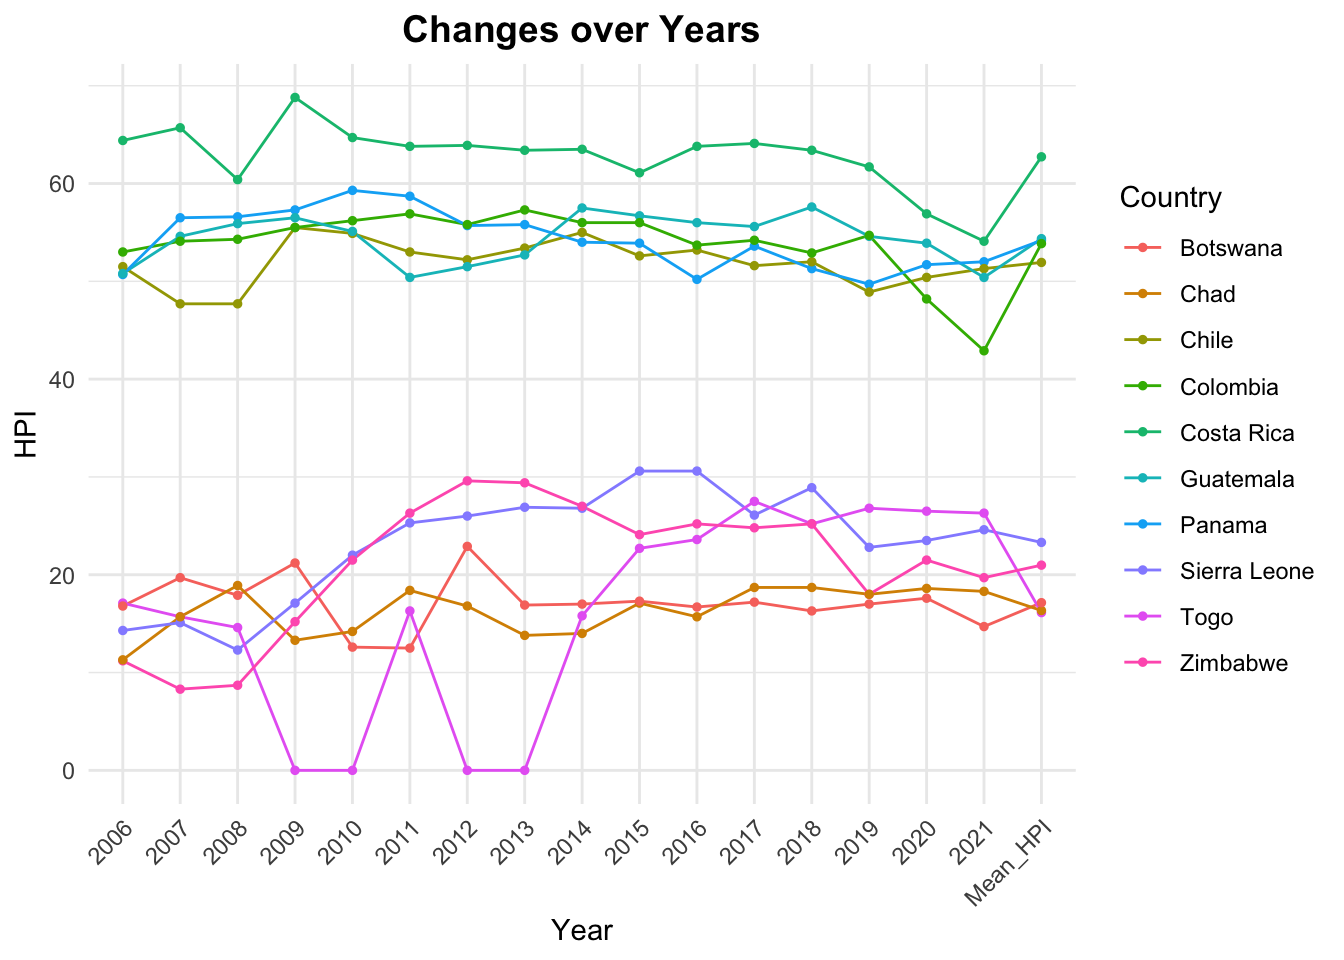
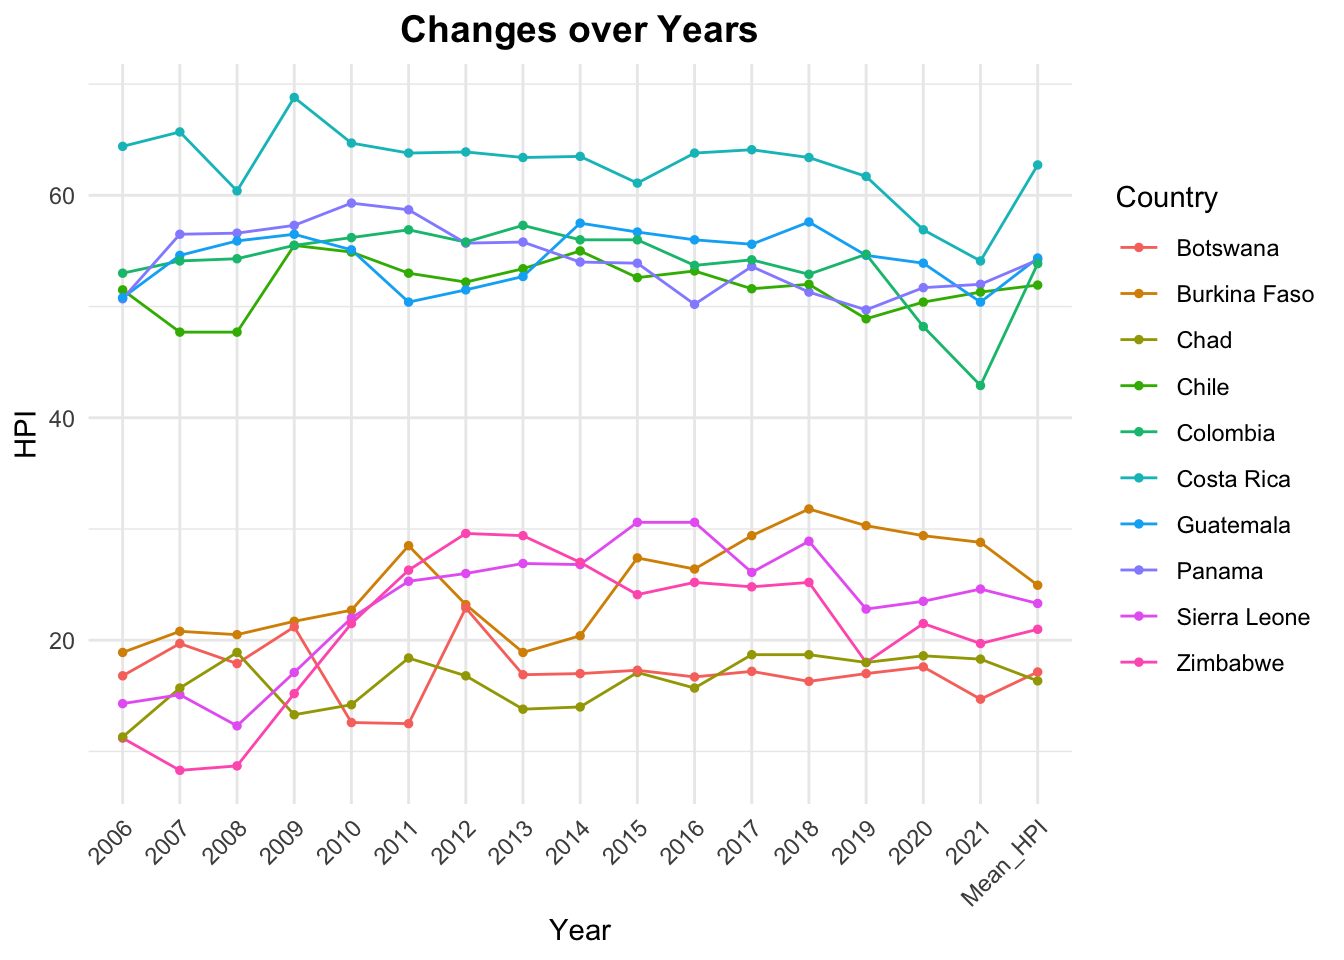
update results.qmd

diff --git a/docs/results.html b/docs/results.html
@@ -652,38 +652,39 @@ pre > code.sourceCode > span > a:first-child::before { text-decoration: underlin
 <span id="cb9-3"><a href="#cb9-3" aria-hidden="true" tabindex="-1"></a>  <span class="fu">select</span>(Country, <span class="st">`</span><span class="at">2006</span><span class="st">`</span>)</span>
 <span id="cb9-4"><a href="#cb9-4" aria-hidden="true" tabindex="-1"></a></span>
 <span id="cb9-5"><a href="#cb9-5" aria-hidden="true" tabindex="-1"></a>lowest_2006 <span class="ot">&lt;-</span> data_2006 <span class="sc">%&gt;%</span></span>
-<span id="cb9-6"><a href="#cb9-6" aria-hidden="true" tabindex="-1"></a>  <span class="fu">arrange</span>(<span class="st">`</span><span class="at">2006</span><span class="st">`</span>) <span class="sc">%&gt;%</span></span>
-<span id="cb9-7"><a href="#cb9-7" aria-hidden="true" tabindex="-1"></a>  <span class="fu">head</span>(<span class="dv">5</span>)</span>
-<span id="cb9-8"><a href="#cb9-8" aria-hidden="true" tabindex="-1"></a></span>
-<span id="cb9-9"><a href="#cb9-9" aria-hidden="true" tabindex="-1"></a>highest_2006 <span class="ot">&lt;-</span> data_2006 <span class="sc">%&gt;%</span></span>
-<span id="cb9-10"><a href="#cb9-10" aria-hidden="true" tabindex="-1"></a>  <span class="fu">arrange</span>(<span class="fu">desc</span>(<span class="st">`</span><span class="at">2006</span><span class="st">`</span>)) <span class="sc">%&gt;%</span></span>
-<span id="cb9-11"><a href="#cb9-11" aria-hidden="true" tabindex="-1"></a>  <span class="fu">head</span>(<span class="dv">5</span>)</span>
-<span id="cb9-12"><a href="#cb9-12" aria-hidden="true" tabindex="-1"></a></span>
-<span id="cb9-13"><a href="#cb9-13" aria-hidden="true" tabindex="-1"></a>selected_countries <span class="ot">&lt;-</span> <span class="fu">rbind</span>(lowest_2006, highest_2006)</span>
-<span id="cb9-14"><a href="#cb9-14" aria-hidden="true" tabindex="-1"></a>filtered_HPI <span class="ot">&lt;-</span> past_HPI <span class="sc">%&gt;%</span></span>
-<span id="cb9-15"><a href="#cb9-15" aria-hidden="true" tabindex="-1"></a>  <span class="fu">filter</span>(Country <span class="sc">%in%</span> selected_countries<span class="sc">$</span>Country)</span>
-<span id="cb9-16"><a href="#cb9-16" aria-hidden="true" tabindex="-1"></a></span>
-<span id="cb9-17"><a href="#cb9-17" aria-hidden="true" tabindex="-1"></a>filtered_HPI_long <span class="ot">&lt;-</span> filtered_HPI <span class="sc">%&gt;%</span></span>
-<span id="cb9-18"><a href="#cb9-18" aria-hidden="true" tabindex="-1"></a>  <span class="fu">pivot_longer</span>(</span>
-<span id="cb9-19"><a href="#cb9-19" aria-hidden="true" tabindex="-1"></a>    <span class="at">cols =</span> <span class="sc">-</span>Country,</span>
-<span id="cb9-20"><a href="#cb9-20" aria-hidden="true" tabindex="-1"></a>    <span class="at">names_to =</span> <span class="st">"Year"</span>,</span>
-<span id="cb9-21"><a href="#cb9-21" aria-hidden="true" tabindex="-1"></a>    <span class="at">values_to =</span> <span class="st">"HPI"</span></span>
-<span id="cb9-22"><a href="#cb9-22" aria-hidden="true" tabindex="-1"></a>  )</span>
-<span id="cb9-23"><a href="#cb9-23" aria-hidden="true" tabindex="-1"></a></span>
-<span id="cb9-24"><a href="#cb9-24" aria-hidden="true" tabindex="-1"></a><span class="fu">ggplot</span>(filtered_HPI_long, <span class="fu">aes</span>(<span class="at">x =</span> Year, <span class="at">y =</span> HPI, <span class="at">color =</span> Country, <span class="at">group =</span> Country)) <span class="sc">+</span></span>
-<span id="cb9-25"><a href="#cb9-25" aria-hidden="true" tabindex="-1"></a>  <span class="fu">geom_line</span>(<span class="at">size =</span> <span class="fl">0.5</span>) <span class="sc">+</span></span>
-<span id="cb9-26"><a href="#cb9-26" aria-hidden="true" tabindex="-1"></a>  <span class="fu">geom_point</span>(<span class="at">size =</span> <span class="dv">1</span>) <span class="sc">+</span></span>
-<span id="cb9-27"><a href="#cb9-27" aria-hidden="true" tabindex="-1"></a>  <span class="fu">labs</span>(</span>
-<span id="cb9-28"><a href="#cb9-28" aria-hidden="true" tabindex="-1"></a>    <span class="at">title =</span> <span class="st">"Changes over Years"</span>,</span>
-<span id="cb9-29"><a href="#cb9-29" aria-hidden="true" tabindex="-1"></a>    <span class="at">x =</span> <span class="st">"Year"</span>,</span>
-<span id="cb9-30"><a href="#cb9-30" aria-hidden="true" tabindex="-1"></a>    <span class="at">y =</span> <span class="st">"HPI"</span>,</span>
-<span id="cb9-31"><a href="#cb9-31" aria-hidden="true" tabindex="-1"></a>    <span class="at">color =</span> <span class="st">"Country"</span></span>
-<span id="cb9-32"><a href="#cb9-32" aria-hidden="true" tabindex="-1"></a>  ) <span class="sc">+</span></span>
-<span id="cb9-33"><a href="#cb9-33" aria-hidden="true" tabindex="-1"></a>  <span class="fu">theme_minimal</span>() <span class="sc">+</span></span>
-<span id="cb9-34"><a href="#cb9-34" aria-hidden="true" tabindex="-1"></a>  <span class="fu">theme</span>(</span>
-<span id="cb9-35"><a href="#cb9-35" aria-hidden="true" tabindex="-1"></a>    <span class="at">axis.text.x =</span> <span class="fu">element_text</span>(<span class="at">angle =</span> <span class="dv">45</span>, <span class="at">hjust =</span> <span class="dv">1</span>),</span>
-<span id="cb9-36"><a href="#cb9-36" aria-hidden="true" tabindex="-1"></a>    <span class="at">plot.title =</span> <span class="fu">element_text</span>(<span class="at">hjust =</span> <span class="fl">0.5</span>, <span class="at">size =</span> <span class="dv">14</span>, <span class="at">face =</span> <span class="st">"bold"</span>)</span>
-<span id="cb9-37"><a href="#cb9-37" aria-hidden="true" tabindex="-1"></a>  )</span></code><button title="Copy to Clipboard" class="code-copy-button"><i class="bi"></i></button></pre></div>
+<span id="cb9-6"><a href="#cb9-6" aria-hidden="true" tabindex="-1"></a>  <span class="fu">filter</span>(Country <span class="sc">!=</span> <span class="st">"Togo"</span>) <span class="sc">%&gt;%</span> <span class="co"># Exclude Togo for missing values</span></span>
+<span id="cb9-7"><a href="#cb9-7" aria-hidden="true" tabindex="-1"></a>  <span class="fu">arrange</span>(<span class="st">`</span><span class="at">2006</span><span class="st">`</span>) <span class="sc">%&gt;%</span>          </span>
+<span id="cb9-8"><a href="#cb9-8" aria-hidden="true" tabindex="-1"></a>  <span class="fu">head</span>(<span class="dv">5</span>)</span>
+<span id="cb9-9"><a href="#cb9-9" aria-hidden="true" tabindex="-1"></a></span>
+<span id="cb9-10"><a href="#cb9-10" aria-hidden="true" tabindex="-1"></a>highest_2006 <span class="ot">&lt;-</span> data_2006 <span class="sc">%&gt;%</span></span>
+<span id="cb9-11"><a href="#cb9-11" aria-hidden="true" tabindex="-1"></a>  <span class="fu">arrange</span>(<span class="fu">desc</span>(<span class="st">`</span><span class="at">2006</span><span class="st">`</span>)) <span class="sc">%&gt;%</span></span>
+<span id="cb9-12"><a href="#cb9-12" aria-hidden="true" tabindex="-1"></a>  <span class="fu">head</span>(<span class="dv">5</span>)</span>
+<span id="cb9-13"><a href="#cb9-13" aria-hidden="true" tabindex="-1"></a></span>
+<span id="cb9-14"><a href="#cb9-14" aria-hidden="true" tabindex="-1"></a>selected_countries <span class="ot">&lt;-</span> <span class="fu">rbind</span>(lowest_2006, highest_2006)</span>
+<span id="cb9-15"><a href="#cb9-15" aria-hidden="true" tabindex="-1"></a>filtered_HPI <span class="ot">&lt;-</span> past_HPI <span class="sc">%&gt;%</span></span>
+<span id="cb9-16"><a href="#cb9-16" aria-hidden="true" tabindex="-1"></a>  <span class="fu">filter</span>(Country <span class="sc">%in%</span> selected_countries<span class="sc">$</span>Country)</span>
+<span id="cb9-17"><a href="#cb9-17" aria-hidden="true" tabindex="-1"></a></span>
+<span id="cb9-18"><a href="#cb9-18" aria-hidden="true" tabindex="-1"></a>filtered_HPI_long <span class="ot">&lt;-</span> filtered_HPI <span class="sc">%&gt;%</span></span>
+<span id="cb9-19"><a href="#cb9-19" aria-hidden="true" tabindex="-1"></a>  <span class="fu">pivot_longer</span>(</span>
+<span id="cb9-20"><a href="#cb9-20" aria-hidden="true" tabindex="-1"></a>    <span class="at">cols =</span> <span class="sc">-</span>Country,</span>
+<span id="cb9-21"><a href="#cb9-21" aria-hidden="true" tabindex="-1"></a>    <span class="at">names_to =</span> <span class="st">"Year"</span>,</span>
+<span id="cb9-22"><a href="#cb9-22" aria-hidden="true" tabindex="-1"></a>    <span class="at">values_to =</span> <span class="st">"HPI"</span></span>
+<span id="cb9-23"><a href="#cb9-23" aria-hidden="true" tabindex="-1"></a>  )</span>
+<span id="cb9-24"><a href="#cb9-24" aria-hidden="true" tabindex="-1"></a></span>
+<span id="cb9-25"><a href="#cb9-25" aria-hidden="true" tabindex="-1"></a><span class="fu">ggplot</span>(filtered_HPI_long, <span class="fu">aes</span>(<span class="at">x =</span> Year, <span class="at">y =</span> HPI, <span class="at">color =</span> Country, <span class="at">group =</span> Country)) <span class="sc">+</span></span>
+<span id="cb9-26"><a href="#cb9-26" aria-hidden="true" tabindex="-1"></a>  <span class="fu">geom_line</span>(<span class="at">size =</span> <span class="fl">0.5</span>) <span class="sc">+</span></span>
+<span id="cb9-27"><a href="#cb9-27" aria-hidden="true" tabindex="-1"></a>  <span class="fu">geom_point</span>(<span class="at">size =</span> <span class="dv">1</span>) <span class="sc">+</span></span>
+<span id="cb9-28"><a href="#cb9-28" aria-hidden="true" tabindex="-1"></a>  <span class="fu">labs</span>(</span>
+<span id="cb9-29"><a href="#cb9-29" aria-hidden="true" tabindex="-1"></a>    <span class="at">title =</span> <span class="st">"Changes over Years"</span>,</span>
+<span id="cb9-30"><a href="#cb9-30" aria-hidden="true" tabindex="-1"></a>    <span class="at">x =</span> <span class="st">"Year"</span>,</span>
+<span id="cb9-31"><a href="#cb9-31" aria-hidden="true" tabindex="-1"></a>    <span class="at">y =</span> <span class="st">"HPI"</span>,</span>
+<span id="cb9-32"><a href="#cb9-32" aria-hidden="true" tabindex="-1"></a>    <span class="at">color =</span> <span class="st">"Country"</span></span>
+<span id="cb9-33"><a href="#cb9-33" aria-hidden="true" tabindex="-1"></a>  ) <span class="sc">+</span></span>
+<span id="cb9-34"><a href="#cb9-34" aria-hidden="true" tabindex="-1"></a>  <span class="fu">theme_minimal</span>() <span class="sc">+</span></span>
+<span id="cb9-35"><a href="#cb9-35" aria-hidden="true" tabindex="-1"></a>  <span class="fu">theme</span>(</span>
+<span id="cb9-36"><a href="#cb9-36" aria-hidden="true" tabindex="-1"></a>    <span class="at">axis.text.x =</span> <span class="fu">element_text</span>(<span class="at">angle =</span> <span class="dv">45</span>, <span class="at">hjust =</span> <span class="dv">1</span>),</span>
+<span id="cb9-37"><a href="#cb9-37" aria-hidden="true" tabindex="-1"></a>    <span class="at">plot.title =</span> <span class="fu">element_text</span>(<span class="at">hjust =</span> <span class="fl">0.5</span>, <span class="at">size =</span> <span class="dv">14</span>, <span class="at">face =</span> <span class="st">"bold"</span>)</span>
+<span id="cb9-38"><a href="#cb9-38" aria-hidden="true" tabindex="-1"></a>  )</span></code><button title="Copy to Clipboard" class="code-copy-button"><i class="bi"></i></button></pre></div>
 </details>
 <div class="cell-output-display">
 <div>
@@ -693,7 +694,7 @@ pre > code.sourceCode > span > a:first-child::before { text-decoration: underlin
 </div>
 </div>
 </div>
-<p>This plot highlights the consistent differences in well-being among countries over time. High-performing nations like Costa Rica and Colombia consistently maintain scores above 50, reflecting stability and progress, while countries like Zimbabwe, Togo, and Chad struggle with scores below 30. These variations point to disparities in economic, social, or environmental conditions. Notably, the high-performing countries exhibit remarkable stability, while lower-ranking nations experience more volatility, suggesting vulnerabilities to external or internal challenges. These trends underscore the need for targeted efforts to support struggling countries and sustain progress in happy ones.</p>
+<p>This plot highlights the consistent differences in well-being among countries over time. High-performing nations like Costa Rica and Colombia consistently maintain scores above 50, reflecting stability and progress, while countries like Zimbabwe, and Chad struggle with scores below 30. These variations point to disparities in economic, social, or environmental conditions. Notably, the high-performing countries exhibit remarkable stability, while lower-ranking nations experience more volatility, suggesting vulnerabilities to external or internal challenges. These trends underscore the need for targeted efforts to support struggling countries and sustain progress in happy ones.</p>
 </section>
 <section id="improvement-and-regression-of-hpi-across-years" class="level2" data-number="3.9">
 <h2 data-number="3.9" class="anchored" data-anchor-id="improvement-and-regression-of-hpi-across-years"><span class="header-section-number">3.9</span> Improvement and Regression of HPI across years</h2>
